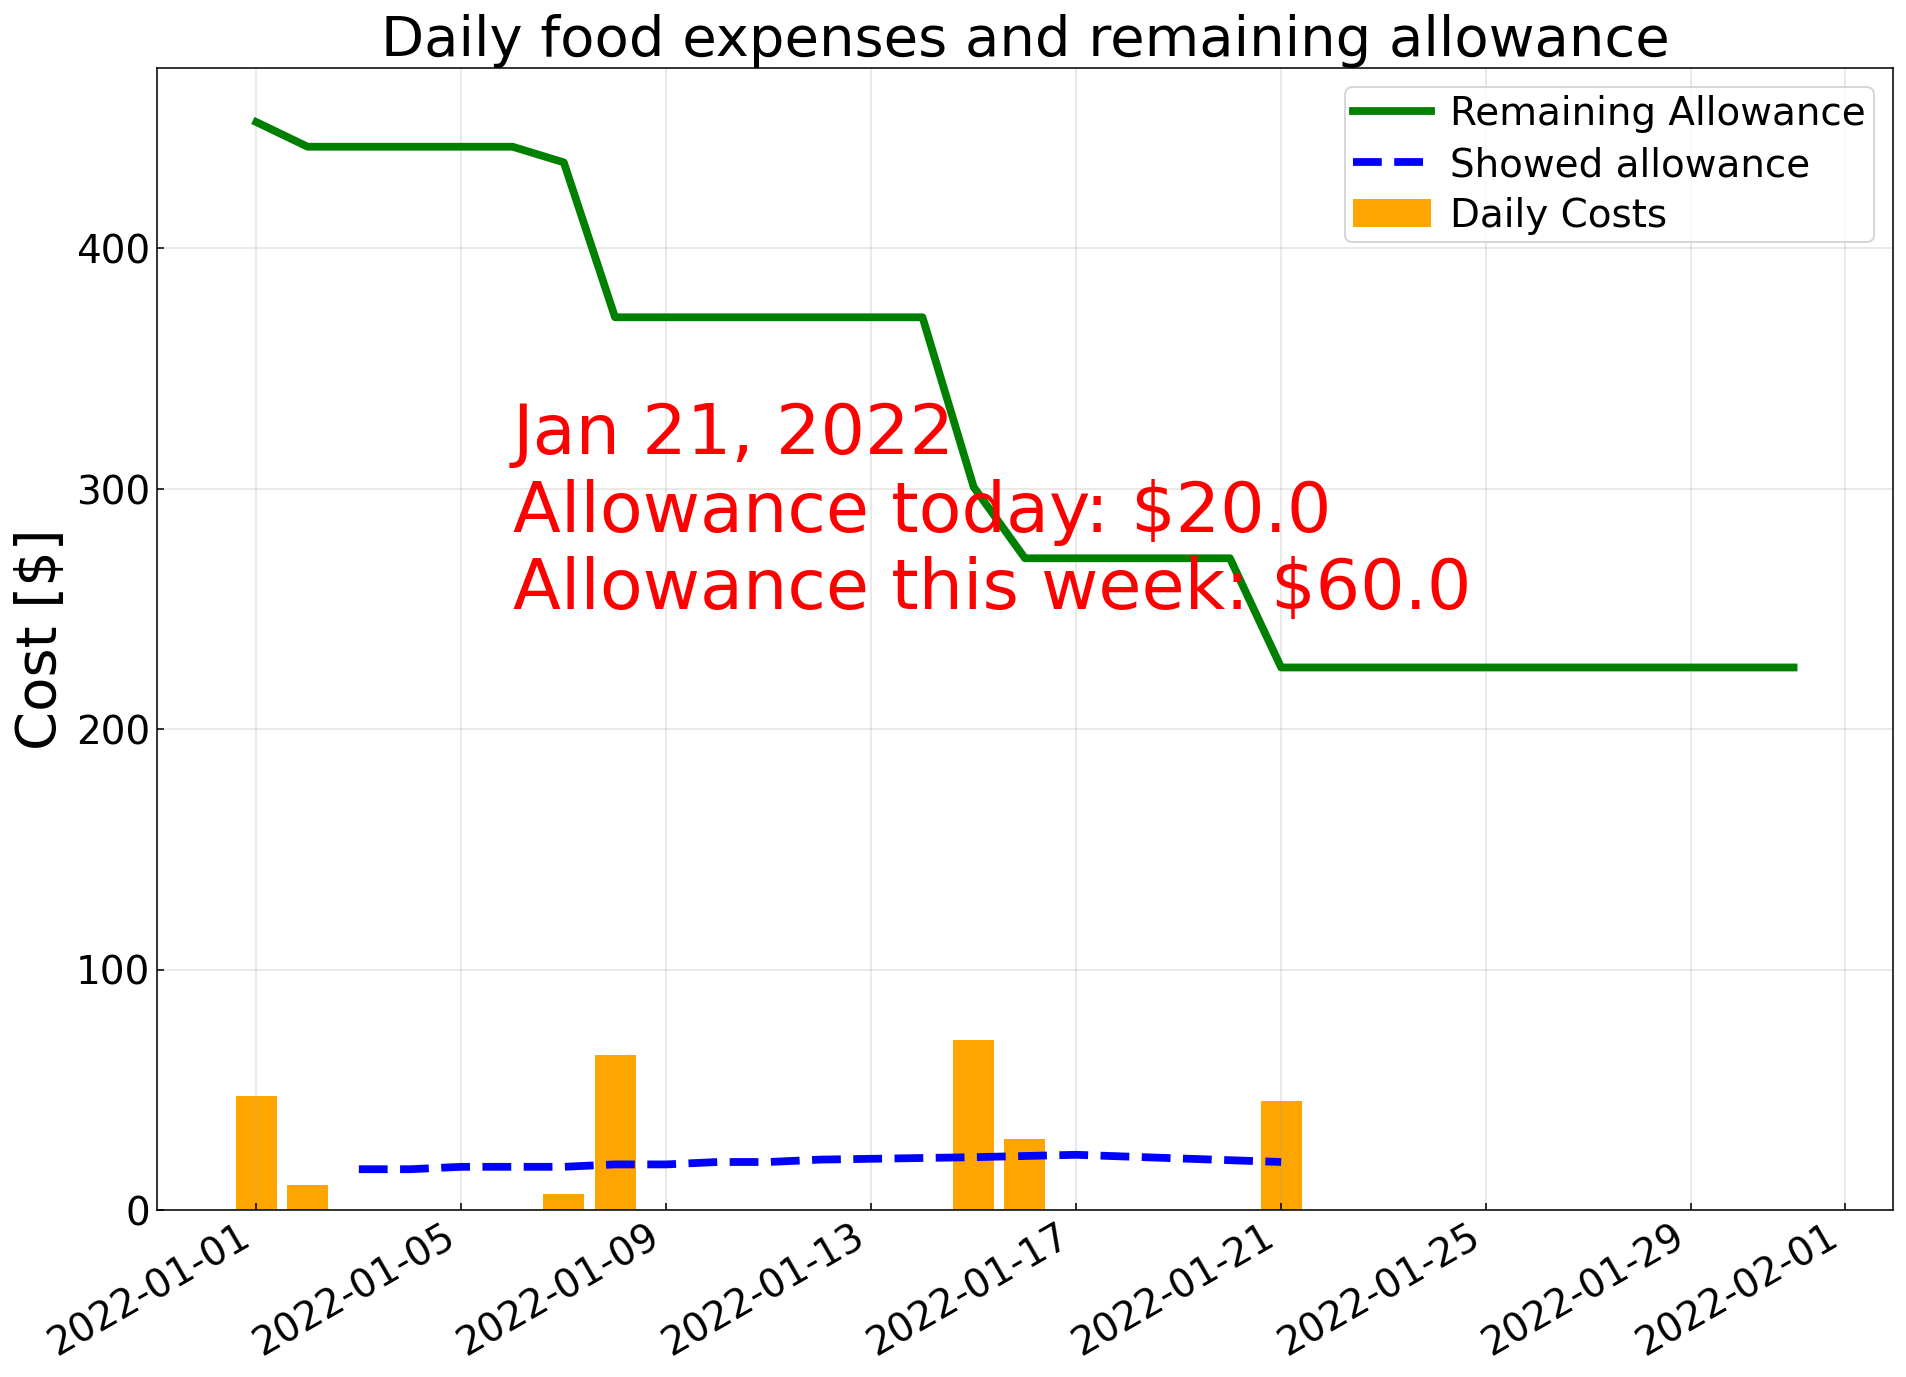
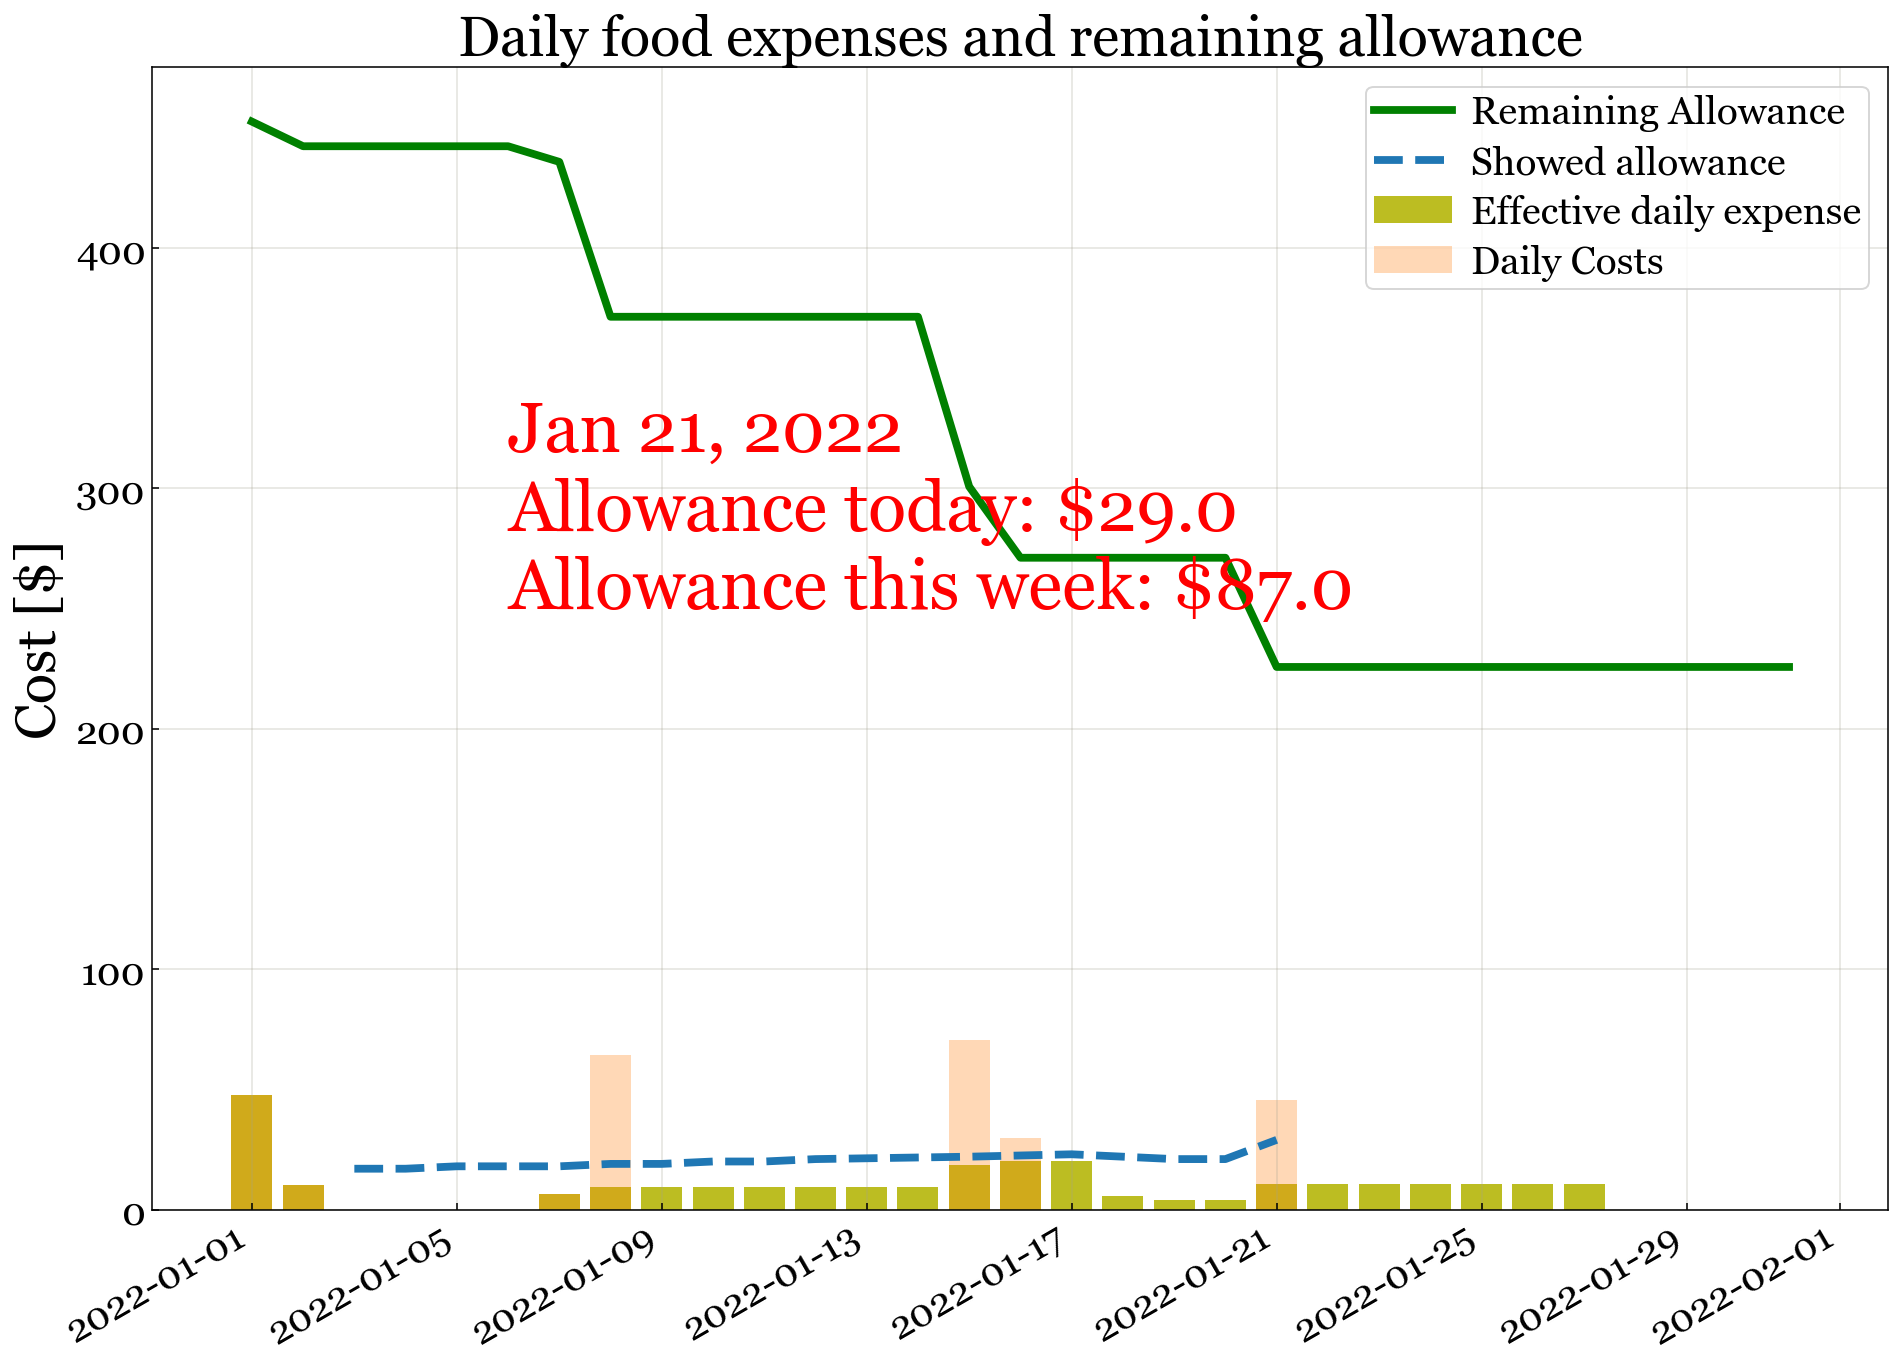
Added effective daily cost plots, corrected calculation and showedAllowance handling

diff --git a/foodExpenses.py b/foodExpenses.py
@@ -83,22 +83,19 @@ def foodExpenses():
         dates[ii] = parseDate(data, ii, 3)
 
     today = datetime.now().date()
-    todayStr = '{}/{}/{}'.format(today.year, today.month, today.day)
     totalDays = monthrange(today.year, today.month)[1]
-    remAllowance = monthlyAllowance
+    # remAllowance = monthlyAllowance
     tt = [date(today.year, today.month, day) for day in range(1, totalDays+1)]
     dailyCosts = np.zeros(len(tt))
+    perDiumCost = np.zeros_like(dailyCosts)
     for ii in range(noEntries):
         if today.month == dates[ii].month:
-            dailyCosts[dates[ii].day - 1] += cost[ii]
-            if daysFor[ii] > 1:
-                remAllowance = (remAllowance
-                                - ((today.day - dates[ii].day)
-                                   * cost[ii] / daysFor[ii]))
-            else:
-                remAllowance = remAllowance - cost[ii]
-    remAllowance = np.round(remAllowance, 2)
-    todayAllowance = np.round(remAllowance
+            ttind = dates[ii].day - 1
+            dF = int(daysFor[ii])
+            dailyCosts[ttind] += cost[ii]
+            perDiumCost[ttind:ttind+dF] += np.ones(dF) * cost[ii] / dF
+    todayAllowance = np.round((monthlyAllowance
+                               - np.sum(perDiumCost[:today.day]))
                               / (totalDays - today.day), 0)
     thisWeekAllow = todayAllowance * (7 - today.weekday())
 
@@ -111,16 +108,28 @@ def foodExpenses():
                                      '%Y/%m/%d').date()
         showedAllowance[ii] = float(allLines[ii].split(' ')[1])
 
+    writeOver = False
     if ttSA[-1] != today:
         ttSA.append(today)
         showedAllowance = np.append(showedAllowance, todayAllowance)
+        writeOver = True
+    elif showedAllowance[-1] != todayAllowance:
+        showedAllowance[-1] = todayAllowance
+        writeOver = True
+    if writeOver:
+        with open('showedAllowance.txt', 'w') as f:
+            for ii in range(len(ttSA)):
+                f.writelines(ttSA[ii].strftime('%Y/%m/%d ')
+                             + str(showedAllowance[ii]) + '\n')
 
     fig, ax = plt.subplots(1, 1, figsize=[16, 12])
-    ax.bar(tt, dailyCosts, label='Daily Costs', color='orange')
+    ax.bar(tt, perDiumCost, label='Effective daily expense',
+           color='tab:olive')
+    ax.bar(tt, dailyCosts, label='Daily Costs', color='tab:orange', alpha=0.3)
     ax.plot(tt, monthlyAllowance - np.cumsum(dailyCosts),
             label='Remaining Allowance', color='green')
     ax.plot(ttSA, showedAllowance, label='Showed allowance',
-            color='blue', ls='--')
+            color='tab:blue', ls='--')
     ax.legend()
     ax.set_title('Daily food expenses and remaining allowance')
     ax.set_ylabel('Cost [$]')
@@ -130,10 +139,6 @@ def foodExpenses():
             fontsize=36, color='red')
     fig.autofmt_xdate()
     fig.savefig('DailyCostsAndParameters.png')
-
-    if allLines[-1].split(' ')[0] != todayStr:
-        with open('showedAllowance.txt', 'a') as f:
-            f.writelines(todayStr + ' ' + str(todayAllowance) + '\n')
 
 
 if __name__ == "__main__":
